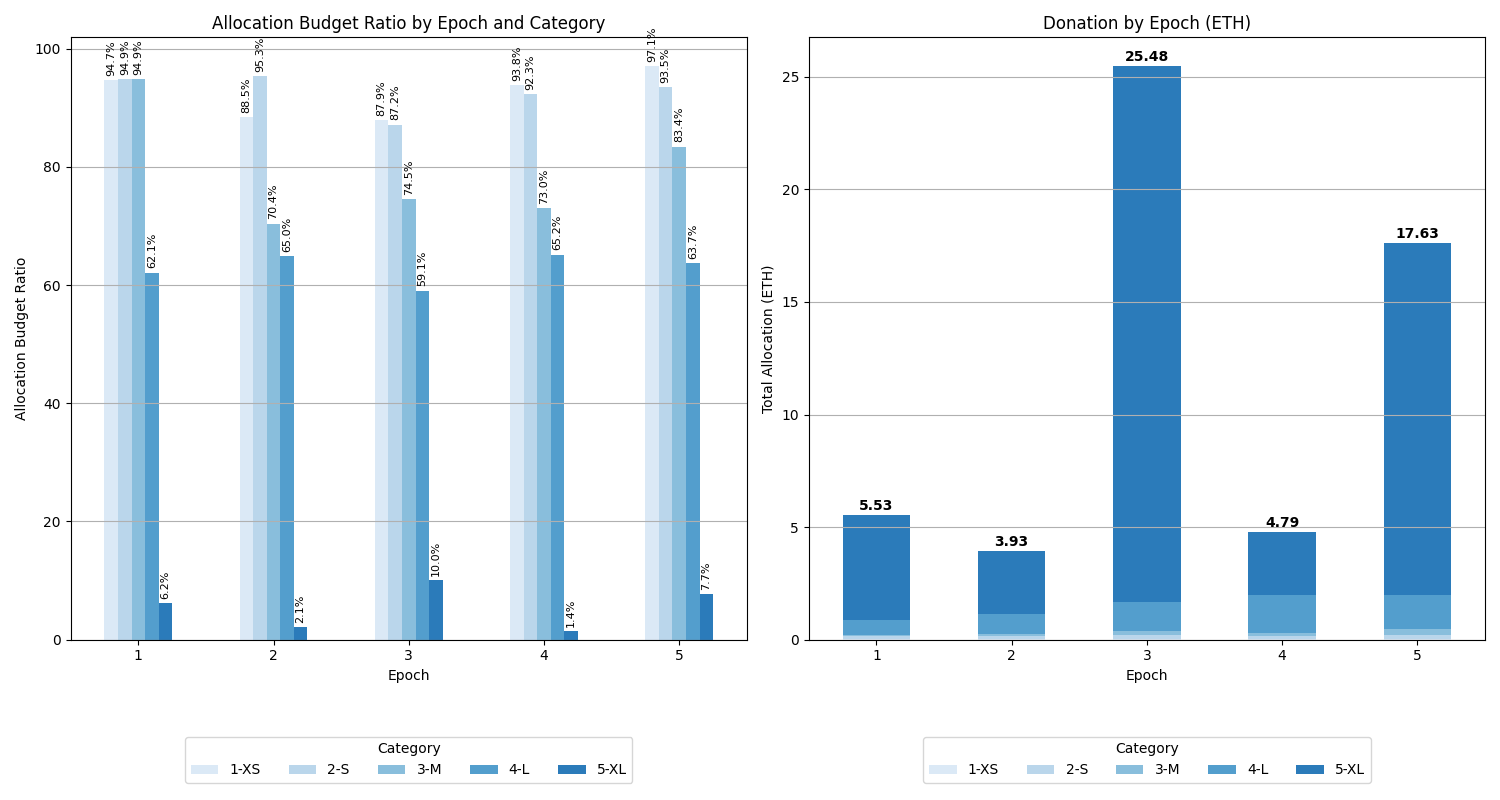
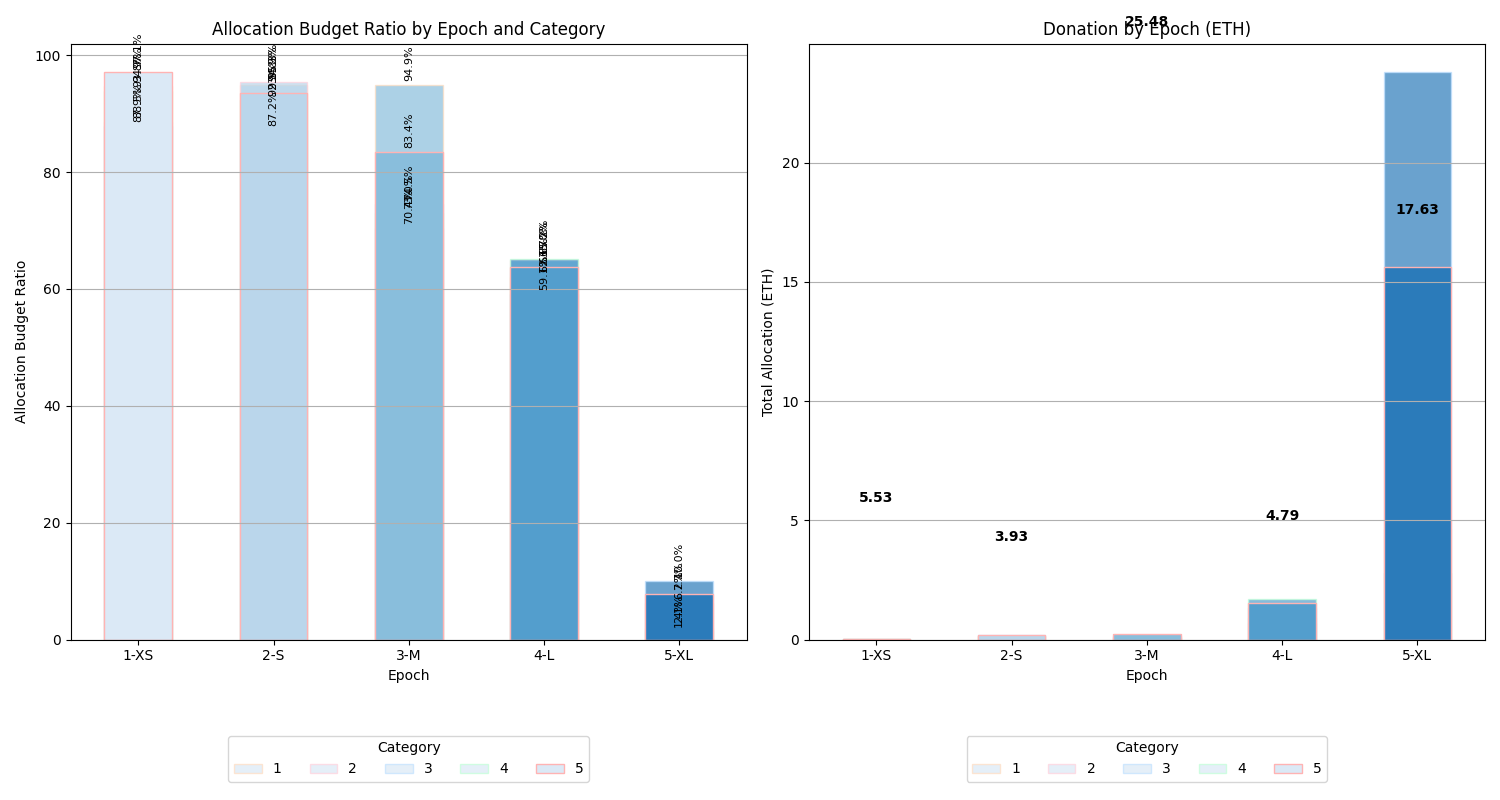
charts formatting - allocatiobs

diff --git a/index.html b/index.html
@@ -94,20 +94,11 @@ layout: default
     <h2>Allocation changes</h2>
 
     <div class="chart-container">
-        <img src="assets/allocation_changes.png" alt="Chart Image" class="chart-image">
+        <img src="assets/allocation_combined.png" alt="Chart Image" class="chart-image">
         <div class="chart-description">
             <h3>Allocation decisions per epoch</h3>
             <p>Average number of allocation decisions (i.e. how frequently users return to the app during an allocation window).
-            </p>
-        </div>
-    </div>
-
-
-    <div class="chart-container">
-        <img src="assets/allocation_frequencies_epoch_5.png" alt="Chart Image" class="chart-image">
-        <div class="chart-description">
-            <h3>Frequency of allocation changes</h3>
-            <p>Worth remembering - a vast majority o users make their allocation only once. The average is inflated by a small number of ouliers.
+            Worth remembering - a vast majority o users make their allocation only once. The average is inflated by a small number of ouliers.
             </p>
         </div>
     </div>
